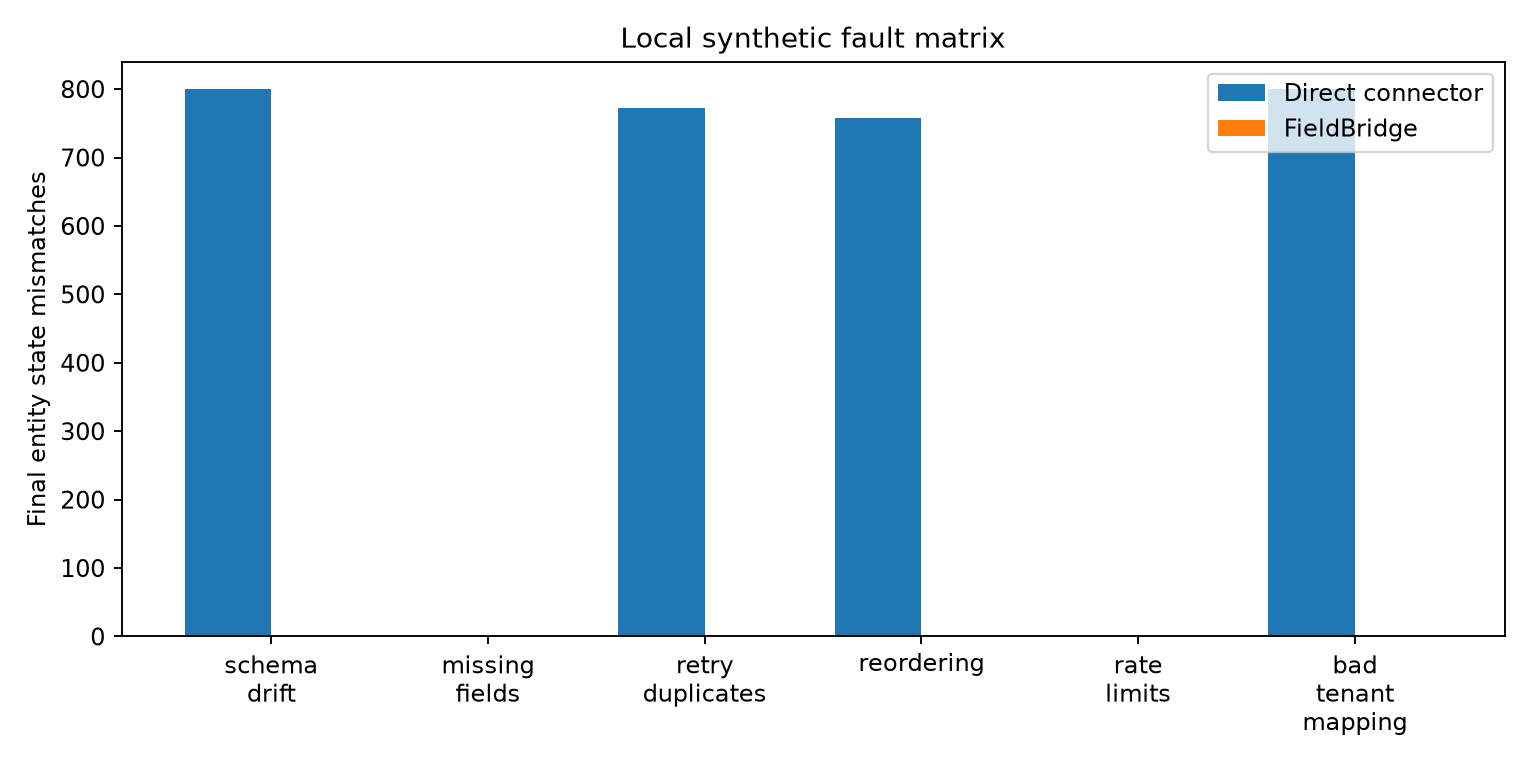
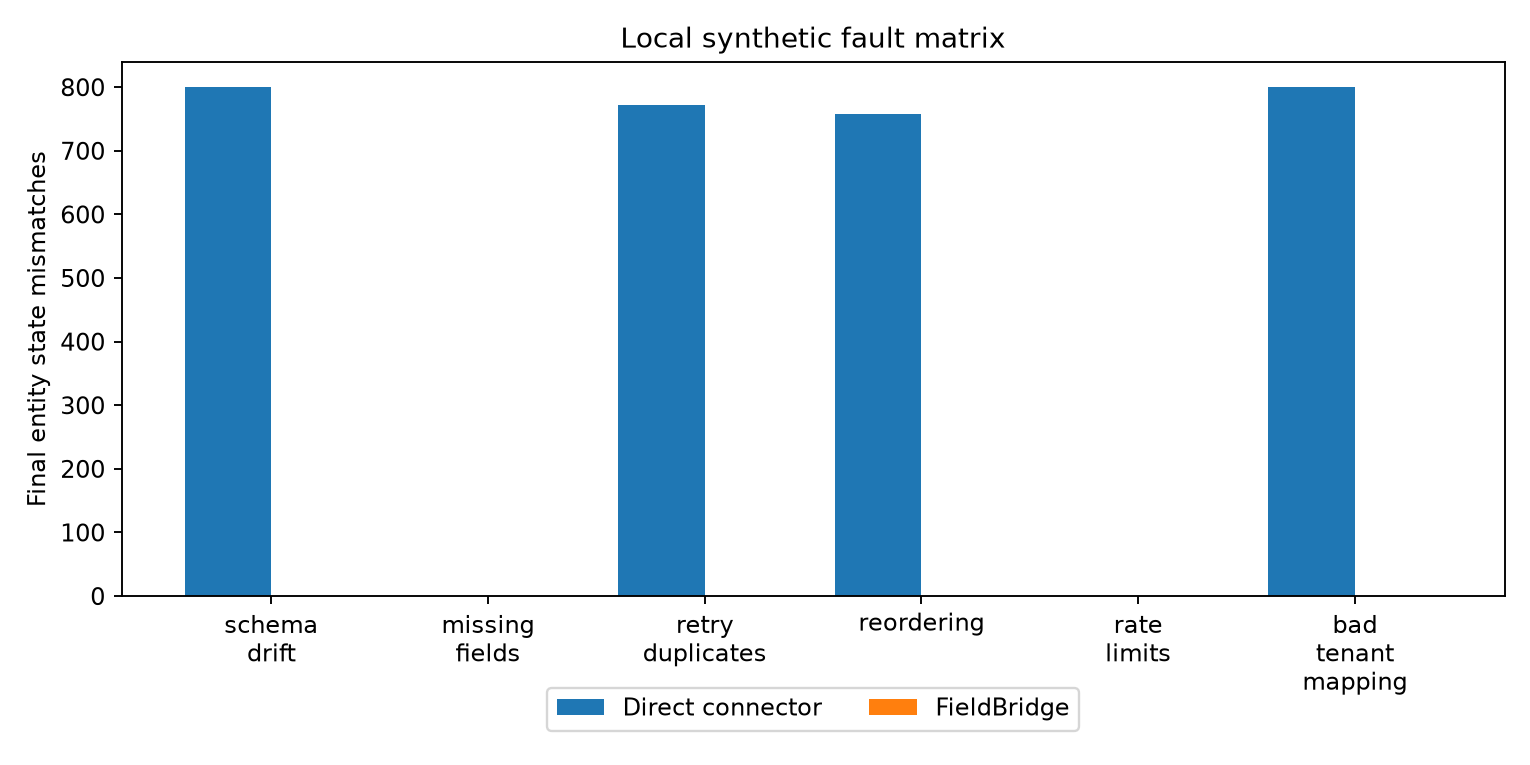
Move chart legend below fault matrix

diff --git a/scripts/make_figures.py b/scripts/make_figures.py
@@ -26,7 +26,7 @@ ax.bar([i + 0.2 for i in x], [fieldbridge[f] for f in faults], 0.4, label="Field
 ax.set_xticks(list(x), [f.replace("_", "\n") for f in faults])
 ax.set_ylabel("Final entity state mismatches")
 ax.set_title("Local synthetic fault matrix")
-ax.legend()
+ax.legend(loc="upper center", bbox_to_anchor=(0.5, -0.15), ncol=2)
 fig.tight_layout()
 out = ROOT / "docs/img/fault_matrix.png"
 out.parent.mkdir(parents=True, exist_ok=True)
